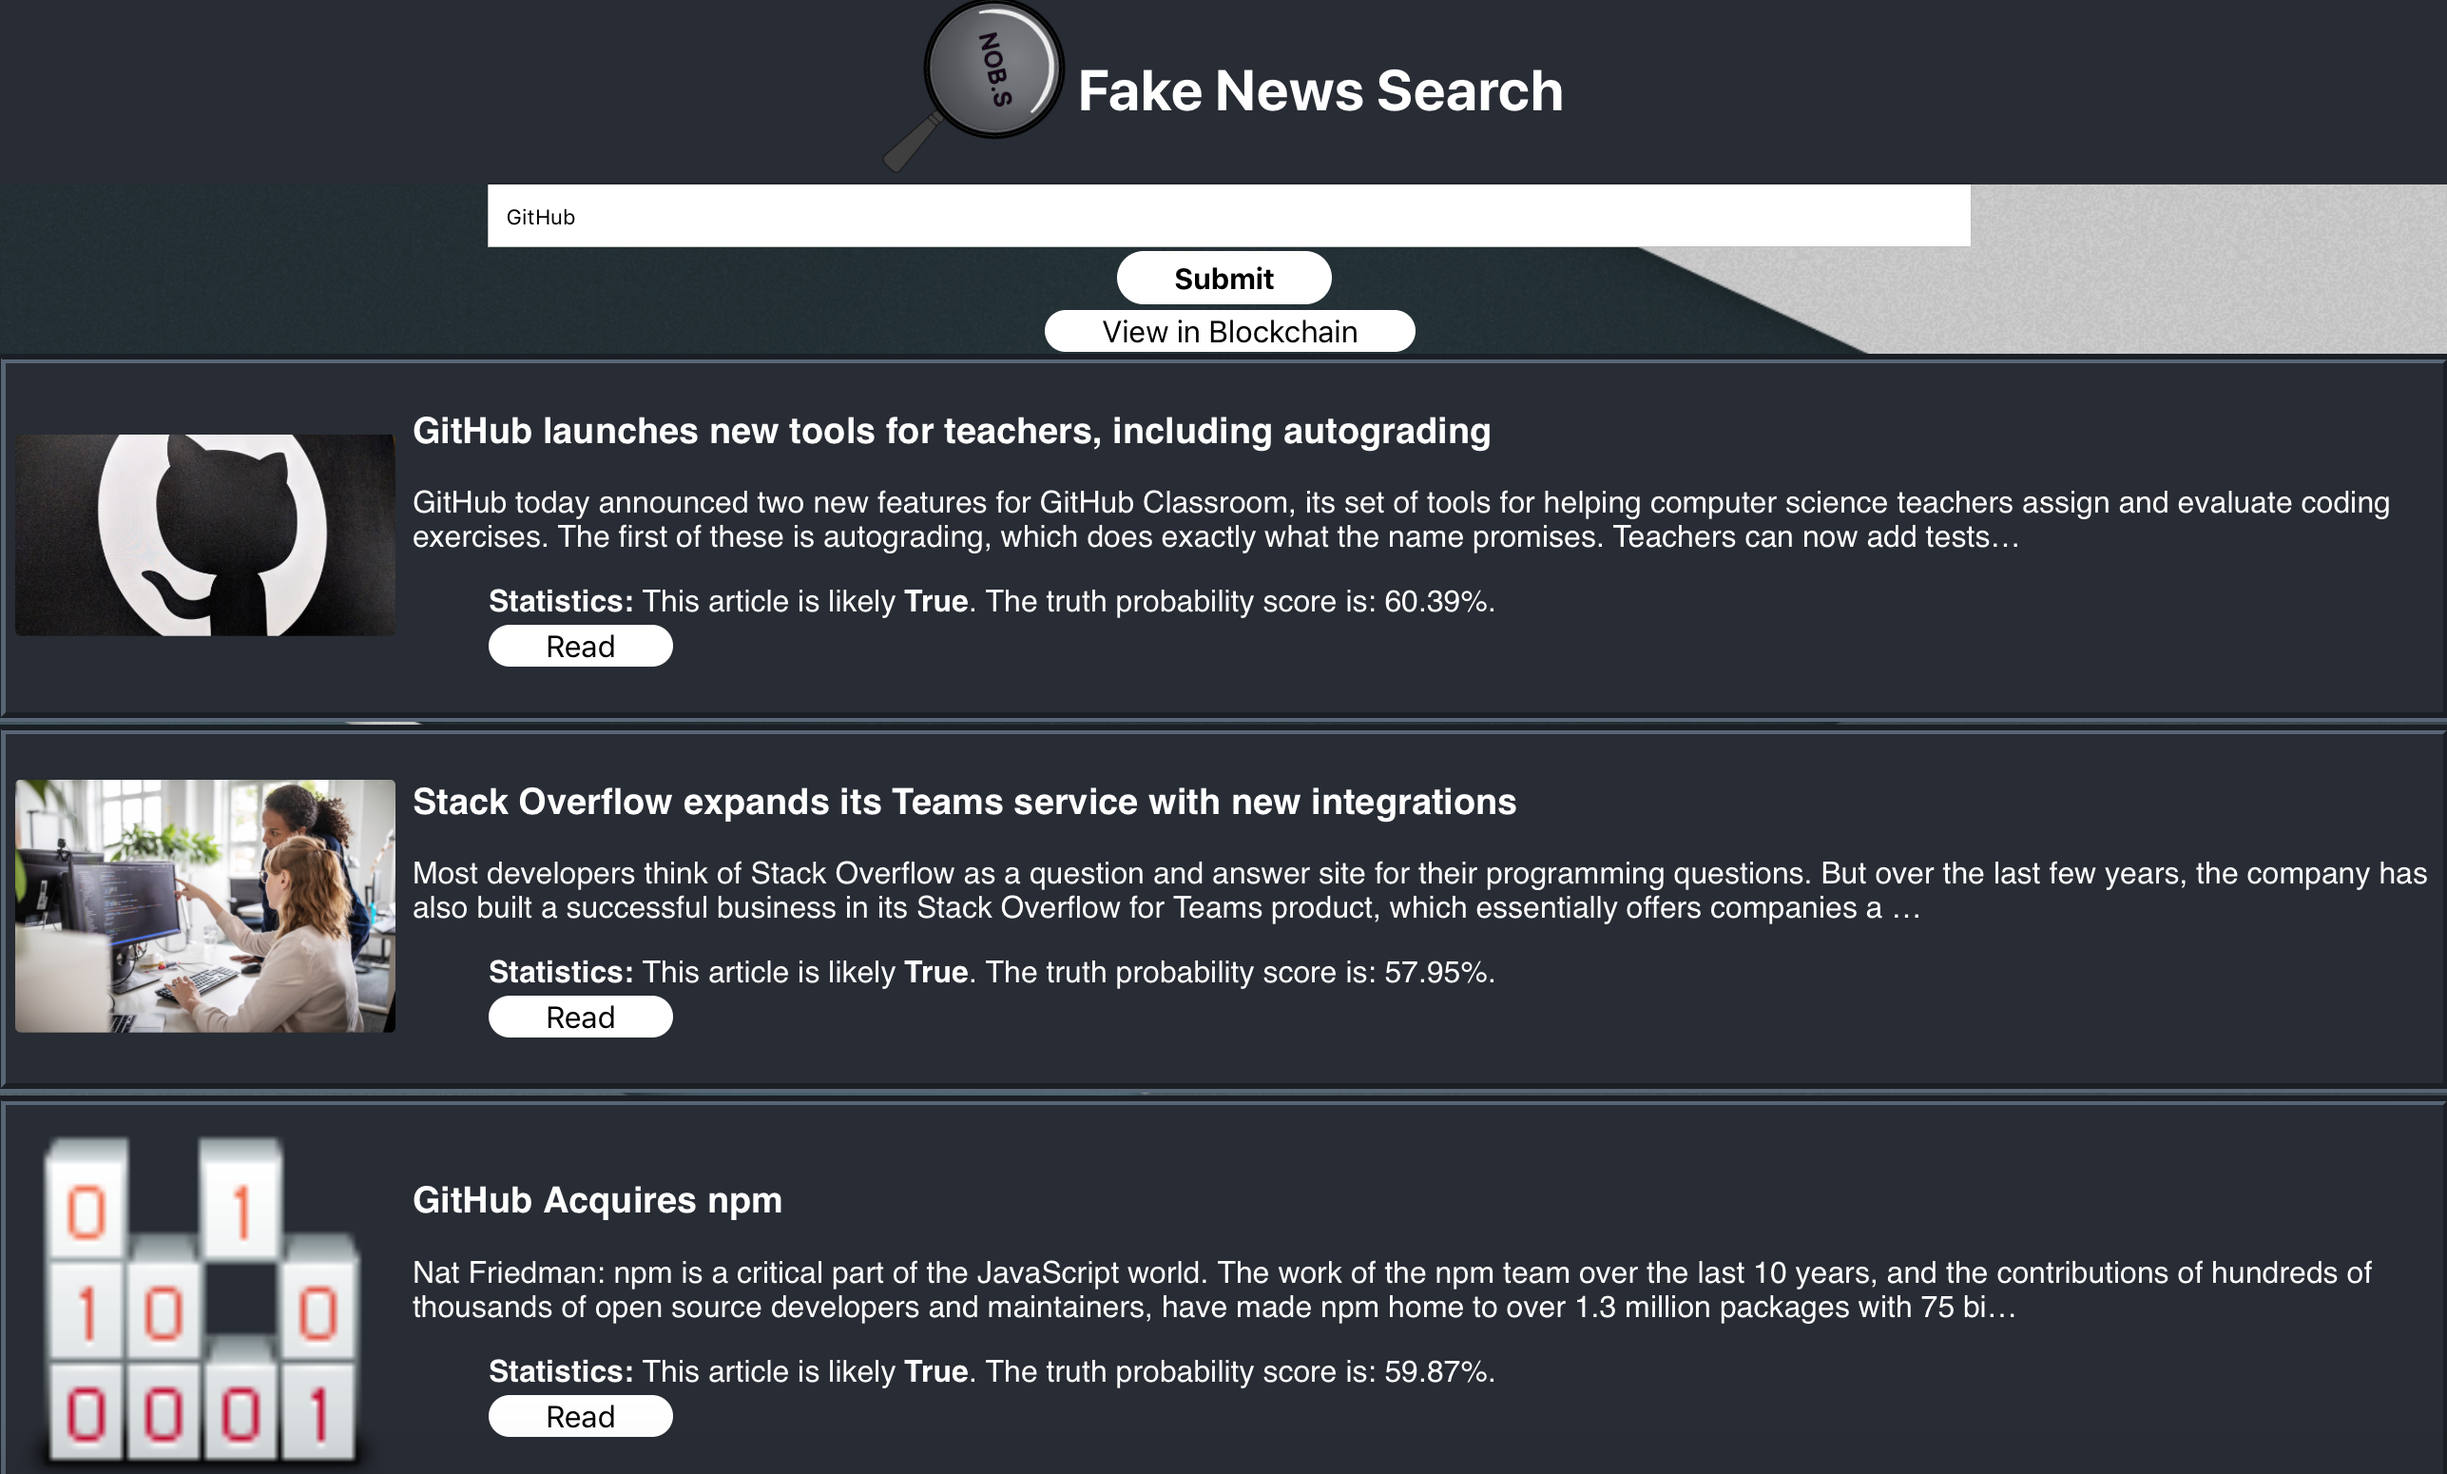
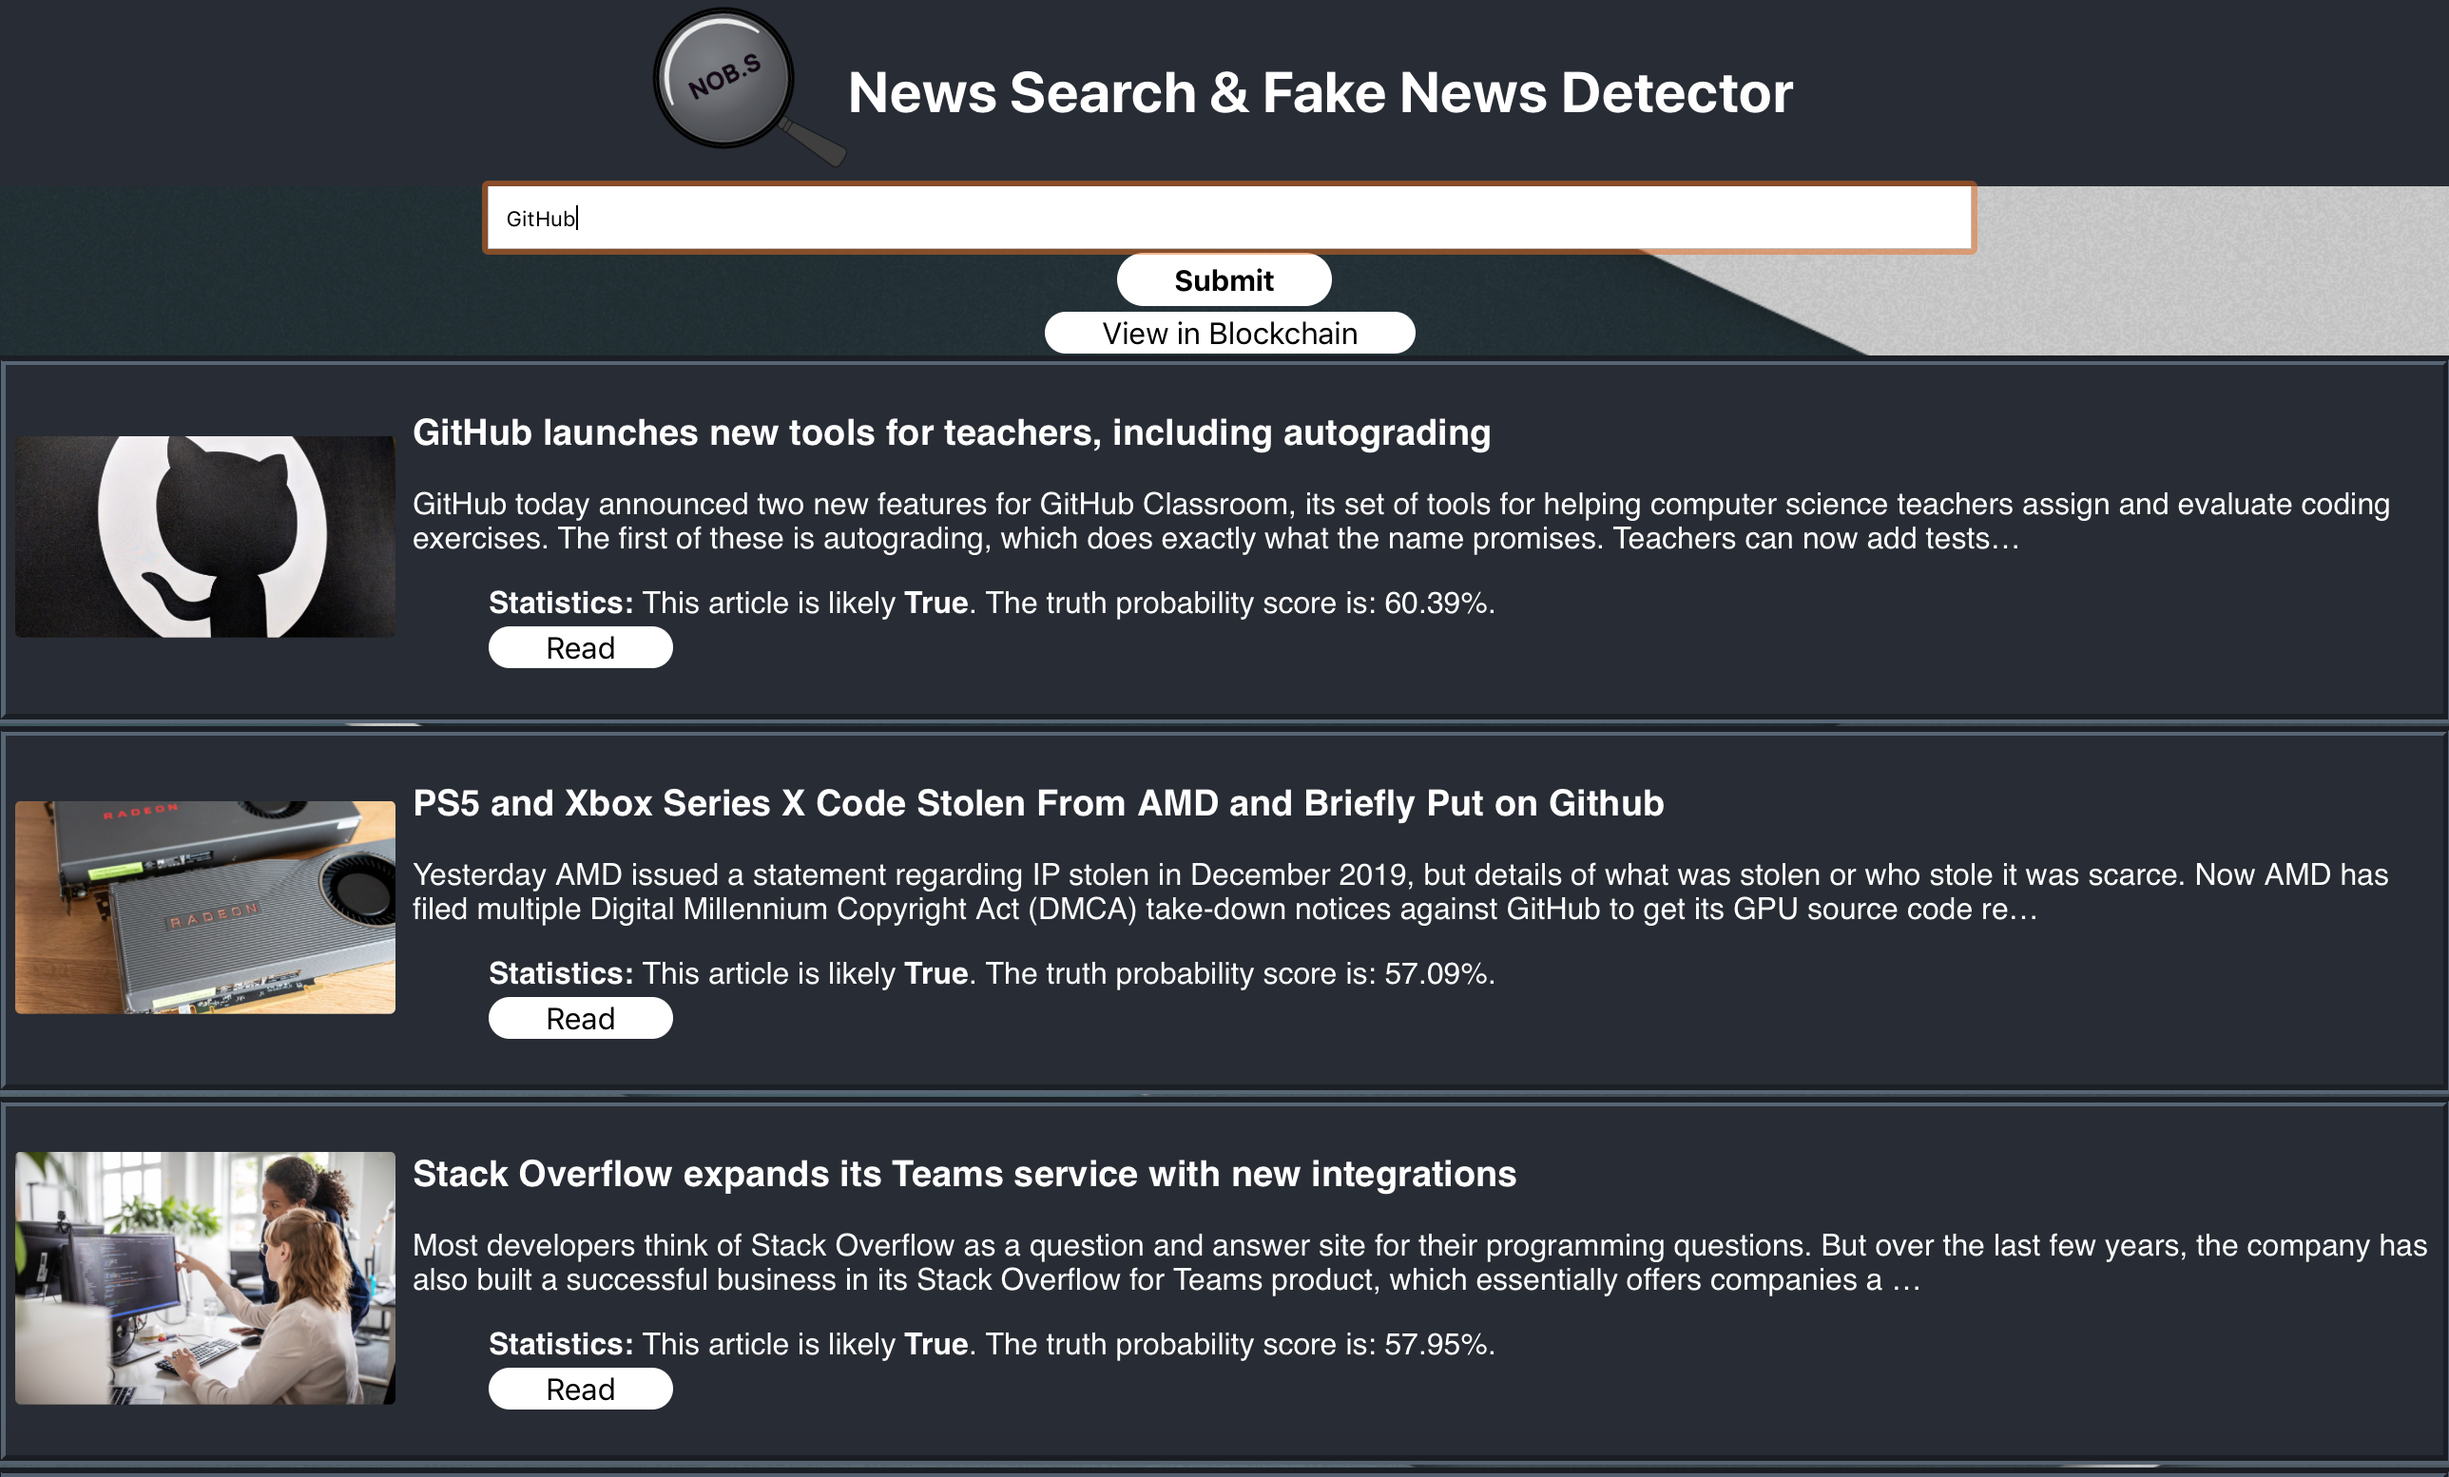
Minor update

diff --git a/fake-news-final/src/App.js b/fake-news-final/src/App.js
@@ -144,7 +144,7 @@ getArticleData(link){
               <tbody>
                 <tr>
                   <td><Logo className="App-logo"></Logo></td>
-                  <td><h3>Fake News Search</h3></td>
+                  <td><h3>News Search & Fake News Detector</h3></td>
                 </tr>
               </tbody>
             </table>
